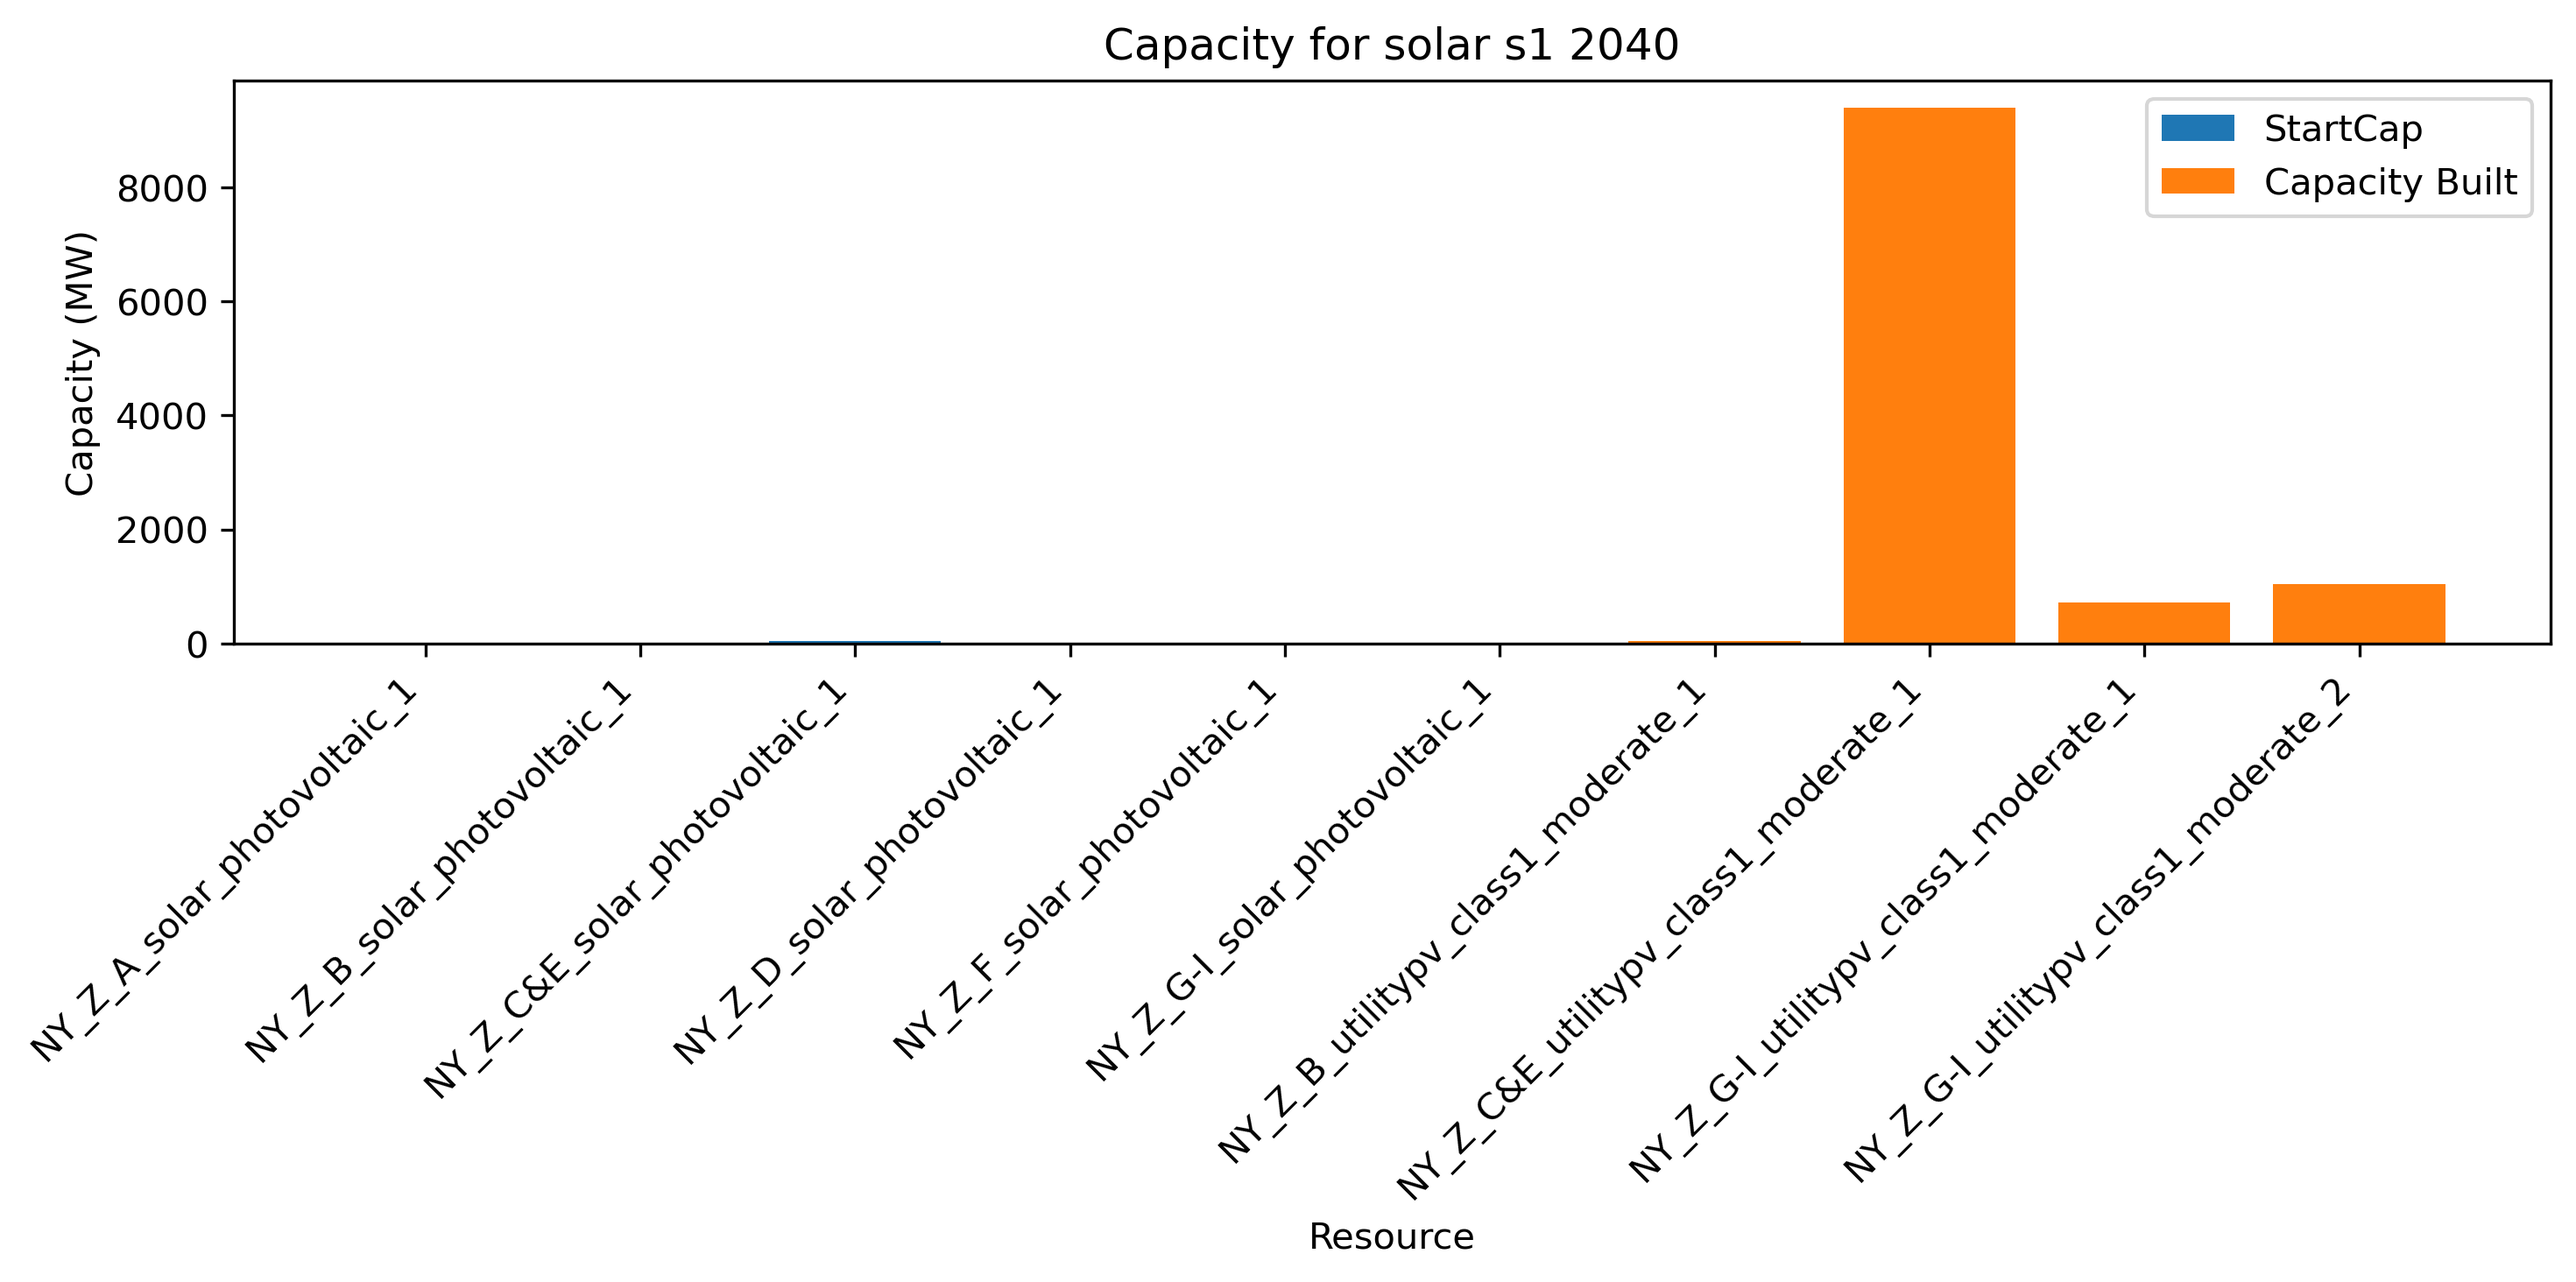
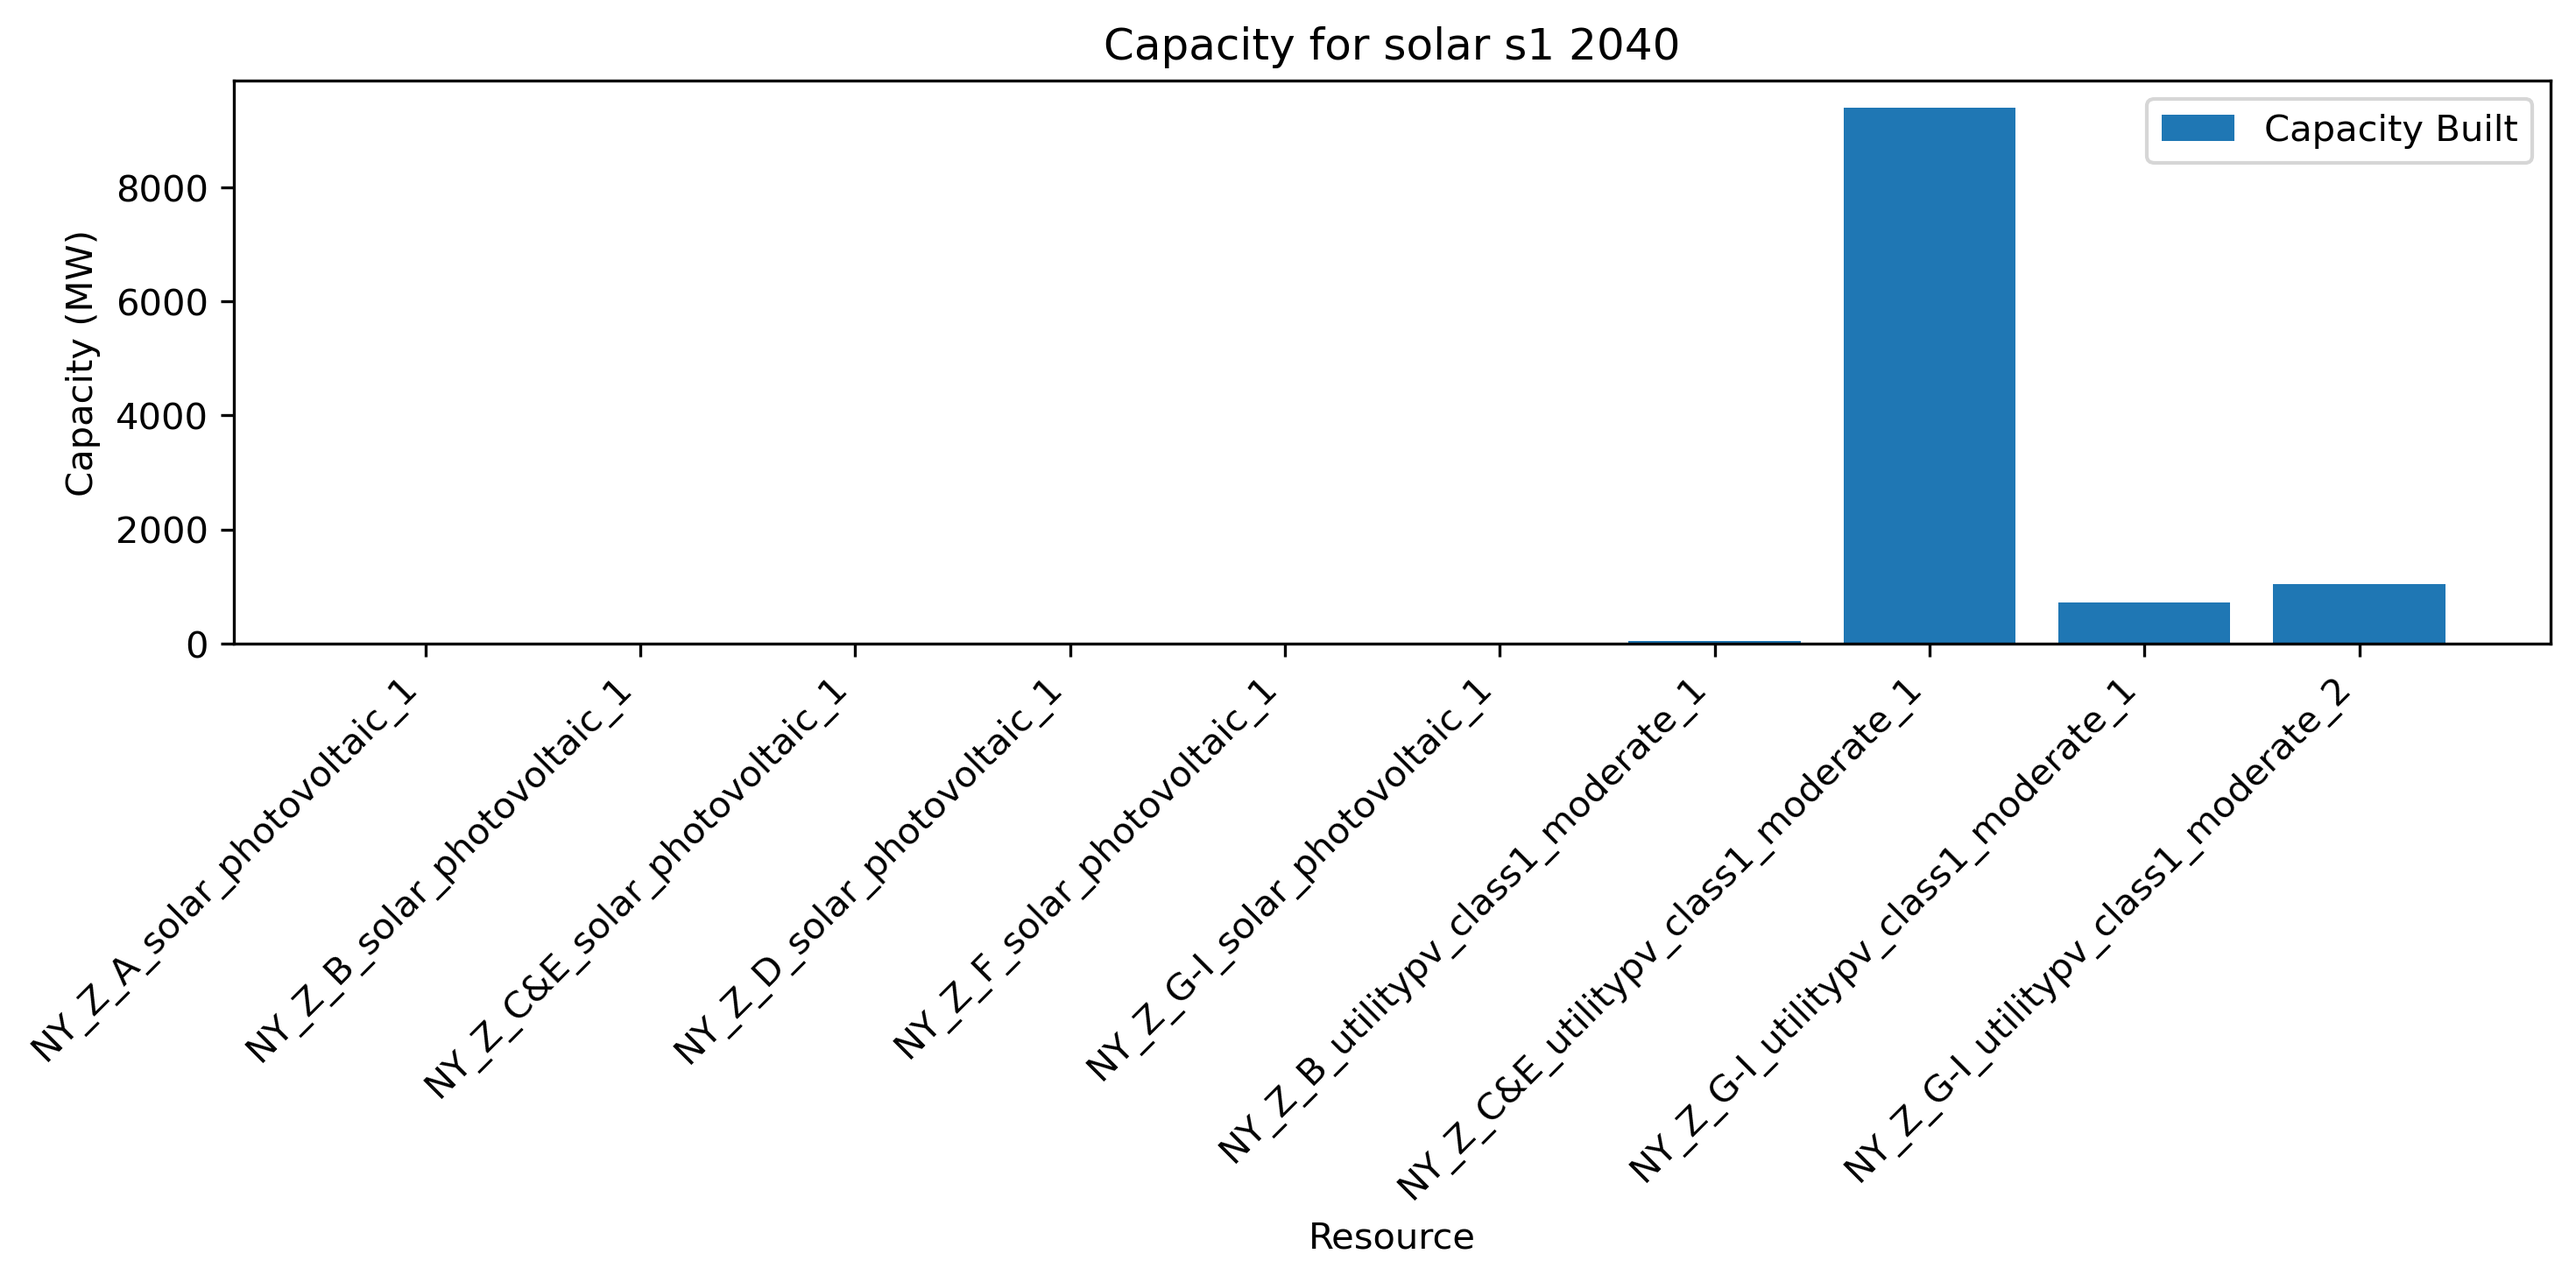
Plots and land use

Changed region(s): [[0.7117, 0.0615, 0.9592, 0.5225], [0.8354, 0.0922, 0.9901, 0.1537]]

diff --git a/Land Analysis/Capacity Figures/Capacity_plot_test.py b/Land Analysis/Capacity Figures/Capacity_plot_test.py
@@ -67,14 +67,14 @@ def plot_resource_capacity(resource_df, resource_name, tech_types, zones, plot_a
     x_positions = list(range(len(to_plot)))
 
     # Data for bars
-    startcap = to_plot["StartCap"].values
+    #startcap = to_plot["StartCap"].values
     capbuilt = to_plot["NewCap"].values
     x_labels = to_plot["Resource"].values
 
     # Plot
     plt.figure(figsize=(10,5))
-    plt.bar(x_positions, startcap, label="StartCap")
-    plt.bar(x_positions, capbuilt, bottom=startcap, label="Capacity Built")
+    #plt.bar(x_positions, startcap, label="StartCap").       bottom=startcap,
+    plt.bar(x_positions, capbuilt, label="Capacity Built")
 
     # Align x-axis labels with bars
     plt.xticks(ticks=x_positions, labels=x_labels, rotation=45, ha="right")
@@ -88,8 +88,7 @@ def plot_resource_capacity(resource_df, resource_name, tech_types, zones, plot_a
     save_path = f"Land Analysis/Capacity Figures/capacity_{scenario_name}.png"   # <-- update this
     plt.savefig(save_path, dpi=300, bbox_inches="tight")
 
-    plt.show()
-
+    #plt.show()
 
 
 def plot_retired_capacity(resource_df, resource_name, plot_aggregation, tech_types, zones):
@@ -130,24 +129,6 @@ def plot_retired_capacity(resource_df, resource_name, plot_aggregation, tech_typ
     plt.legend()
     plt.tight_layout()
     plt.show()
-
-# for resource_type in resources:
-#     if resource_type == "wind":
-#         plot_retired_capacity(wind_df, "Wind", plot_aggregation, tech_types, zones)
-#     elif resource_type == "gas":
-#         plot_retired_capacity(gas_df, "Gas", plot_aggregation, tech_types, zones)
-#     elif resource_type == "hydro":
-#         plot_retired_capacity(hydro_df, "Hydro", plot_aggregation, tech_types, zones)
-#     elif resource_type in ["utilitypv", "photovoltaic"]:
-#         plot_retired_capacity(solar_df, "Solar", plot_aggregation, tech_types, zones)
-#     elif resource_type == "nuclear":
-#         plot_retired_capacity(nuclear_df, "Nuclear", plot_aggregation, tech_types, zones)
-#     elif resource_type == "trans":
-#         plot_retired_capacity(trans_df, "Transmission", plot_aggregation, tech_types, zones)
-#     elif resource_type == "biomass":
-#         plot_retired_capacity(biomass_df, "Biomass", plot_aggregation, tech_types, zones)
-#     elif resource_type == "distributed":
-#         plot_retired_capacity(distributed_df, "Distributed", plot_aggregation, tech_types, zones)  
         
 
 for i in range(len(pathnames)):
@@ -161,3 +142,59 @@ for i in range(len(pathnames)):
     scenario = scenario_names[i]
 
     plot_resource_capacity(solar_data, resource_name, tech_types, zones, plot_aggregation, scenario)
+
+
+def plot_stacked_newcap(all_scenario_data, scenario_names, zones_to_include):
+
+    tech_order = ["solar", "wind", "gas", "hydro", "nuclear"]
+    df_list = []
+
+    for scenario_name, data in zip(scenario_names, all_scenario_data):
+        for tech in tech_order:
+            tech_df = data[tech]
+
+            # ---- NEW: filter by zones ----
+            if zones_to_include is not None:
+                tech_df = tech_df[tech_df["Zone"].isin(zones_to_include)]
+
+            # sum capacity for selected zones
+            newcap_val = tech_df["NewCap"].sum()
+
+            df_list.append({
+                "Scenario": scenario_name,
+                "Tech": tech,
+                "NewCap": newcap_val
+            })
+
+    df = pd.DataFrame(df_list)
+
+    # Pivot to wide format for plotting
+    pivot = df.pivot(index="Scenario", columns="Tech", values="NewCap").fillna(0)
+
+    # Plot
+    plt.figure(figsize=(12,6))
+    pivot.plot(kind="bar", stacked=True, figsize=(12,6))
+
+    plt.ylabel("Added Capacity (MW)")
+    plt.xlabel("Scenario")
+    plt.title("New Installed Capacity by Scenario")
+    plt.xticks(rotation=45, ha="right")
+    plt.legend(title="Generation Type")
+    plt.tight_layout()
+
+    save_path = "Land Analysis/Capacity Figures/NewCap_Bars.png"
+    plt.savefig(save_path, dpi=300, bbox_inches="tight")
+
+    # plt.show()
+
+
+# Collect data for all scenarios
+all_scenario_data = []
+
+for path in pathnames:
+    all_scenario_data.append(get_data_from_csv(path))
+
+zones = [2,3,4,5,6,7]
+
+# Create the stacked bar plot
+plot_stacked_newcap(all_scenario_data, scenario_names, zones)

diff --git a/Land Analysis/Land Use Analysis.py b/Land Analysis/Land Use Analysis.py
@@ -28,7 +28,7 @@ def get_solar_dataframe(pathname):
         .str.extract("(" + pattern + ")", expand=False)
     )
 
-    solar_df = df[df["ResourceType"].isin(["utilitypv", "photovoltaic"])]
+    solar_df = df[df["ResourceType"].isin(["utilitypv"])]
 
     return solar_df
 
@@ -133,9 +133,14 @@ def land_use_analysis(capacity_dataframe, agvol_share, zones, zone_labels, scena
     plt.savefig(save_path, dpi=300, bbox_inches="tight")
     #print(f"Figure saved to: {save_path}")
 
-    plt.show()
+    #plt.show()
 
 
+# How much land for each scenario
+def land_per_scenario(capacity_dataframe, solar_density):
+    land_needed = (capacity_dataframe["NewCap"].sum()) * solar_density
+    return land_needed
+    
 
 
 
@@ -147,8 +152,27 @@ zone_labels = ['Zone A', 'Zone B', 'Zone C&E', 'Zone D', 'Zone F', 'Zone G-I', '
 
 pathnames = [s1_path_2030, s2_path, s3_path, s1_path_2040, s4_path, s5_path, s6_path, s7_path]
 scenario_names = ['s1 2030', 's2', 's3', 's1 2040', 's4', 's5', 's6', 's7']
+land = []
 
 for i in range(len(pathnames)):
     solar_df = get_solar_dataframe(pathnames[i])
     land_use_analysis(solar_df, agvol_share, zones, zone_labels, scenario_names[i])
+    land_add = land_per_scenario(solar_df, solar_density)
+    land.append(land_add)
 
+print(land)
+
+#print(f"Land required for {scenario_name} is {land_needed} acres")
+
+plt.figure(figsize=(12,6))
+plt.bar(zones, land, label="Acres")
+plt.xticks(ticks=zones, labels=scenario_names, rotation=45, ha="right")
+plt.ylabel("Land Required (Acres)")
+plt.xlabel("Scenario")
+plt.title("Land Needed by Scenario")
+plt.xticks(rotation=45, ha="right")
+plt.legend(title="Generation Type")
+plt.tight_layout()
+
+save_path = "Land Analysis/Capacity Figures/Total_land_by_scenario.png"
+plt.savefig(save_path, dpi=300, bbox_inches="tight")

diff --git a/Land Analysis/Economics.py b/Land Analysis/Economics.py
@@ -1,0 +1,31 @@
+# Economics
+
+import pandas as pd
+import matplotlib.pyplot as plt
+
+s1_path_2030 = 'output/202512092100-PG-2030-B/s1/results/costs.csv'
+s2_path = 'output/202512092100-PG-2030-B/s2/results/costs.csv'
+s3_path = 'output/202512092100-PG-2030-B/s3/results/costs.csv'
+s1_path_2040 = 'output/202512092232-PG-2040-B/s1/results/costs.csv'
+s4_path = 'output/202512092232-PG-2040-B/s4/results/costs.csv'
+s5_path = 'output/202512092232-PG-2040-B/s5/results/costs.csv'
+s6_path = 'output/202512092232-PG-2040-B/s6/results/costs.csv'
+s7_path = 'output/202512092232-PG-2040-B/s7/results/costs.csv'
+
+pathnames = [s1_path_2030, s2_path, s3_path, s1_path_2040, s4_path, s5_path, s6_path, s7_path]
+scenario_names = ['s1 2030', 's2', 's3', 's1 2040', 's4', 's5', 's6', 's7']
+
+def load_data(pathname):
+    df = pd.read_csv(pathname)
+
+def economic_comparison(data):
+    total_cost = data.loc["cTotal", "Total"]
+    return total_cost
+
+for i in range(len(pathnames)):
+    df = pd.read_csv(pathnames[i])
+    cost = economic_comparison(df)
+    print (cost)
+
+
+
